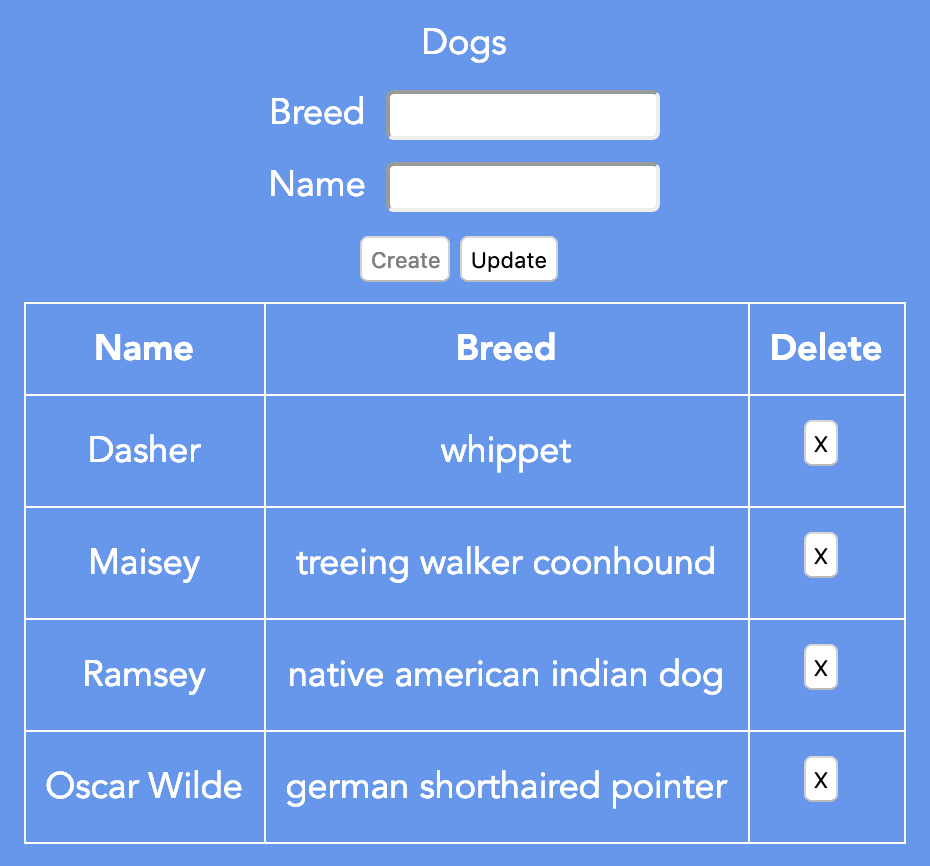
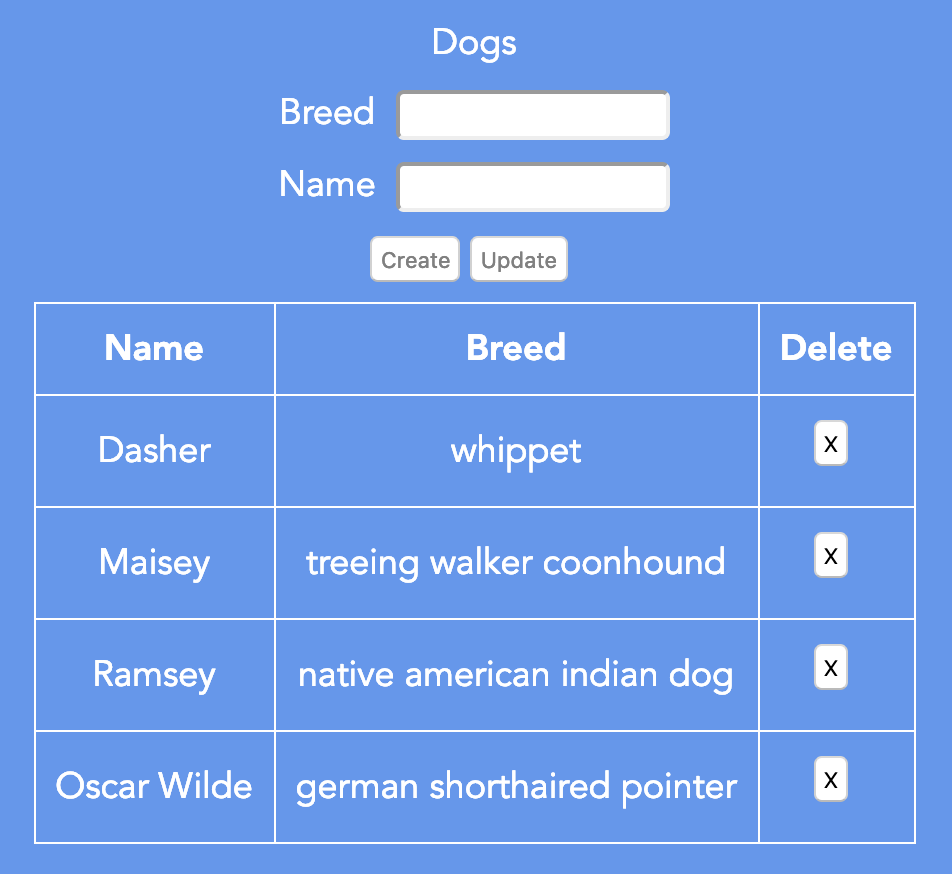
added resetting of some data

diff --git a/src/components/Dogs.vue b/src/components/Dogs.vue
@@ -51,6 +51,7 @@ export default {
         if (res.ok) {
           const dog = await res.json();
           this.dogs.push(dog);
+          this.id = null;
           this.breed = '';
           this.name = '';
         } else {
@@ -95,6 +96,9 @@ export default {
         if (res.ok) {
           const index = this.dogs.findIndex(dog => dog.id === id);
           this.$set(this.dogs, index, dog);
+          this.id = null;
+          this.breed = '';
+          this.name = '';
         } else {
           this.handleError(res.text);
         }
